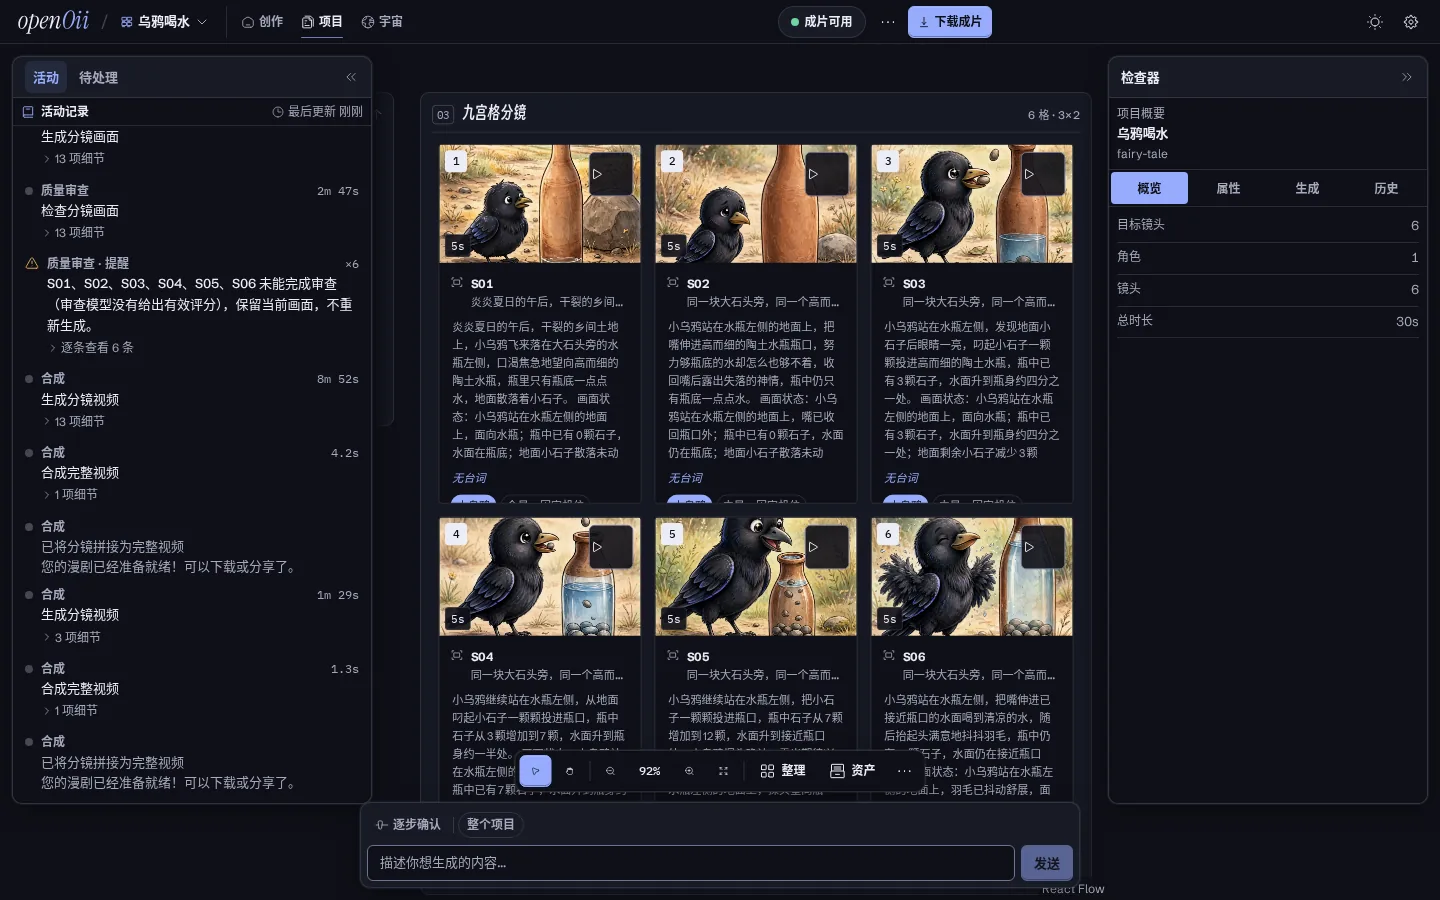
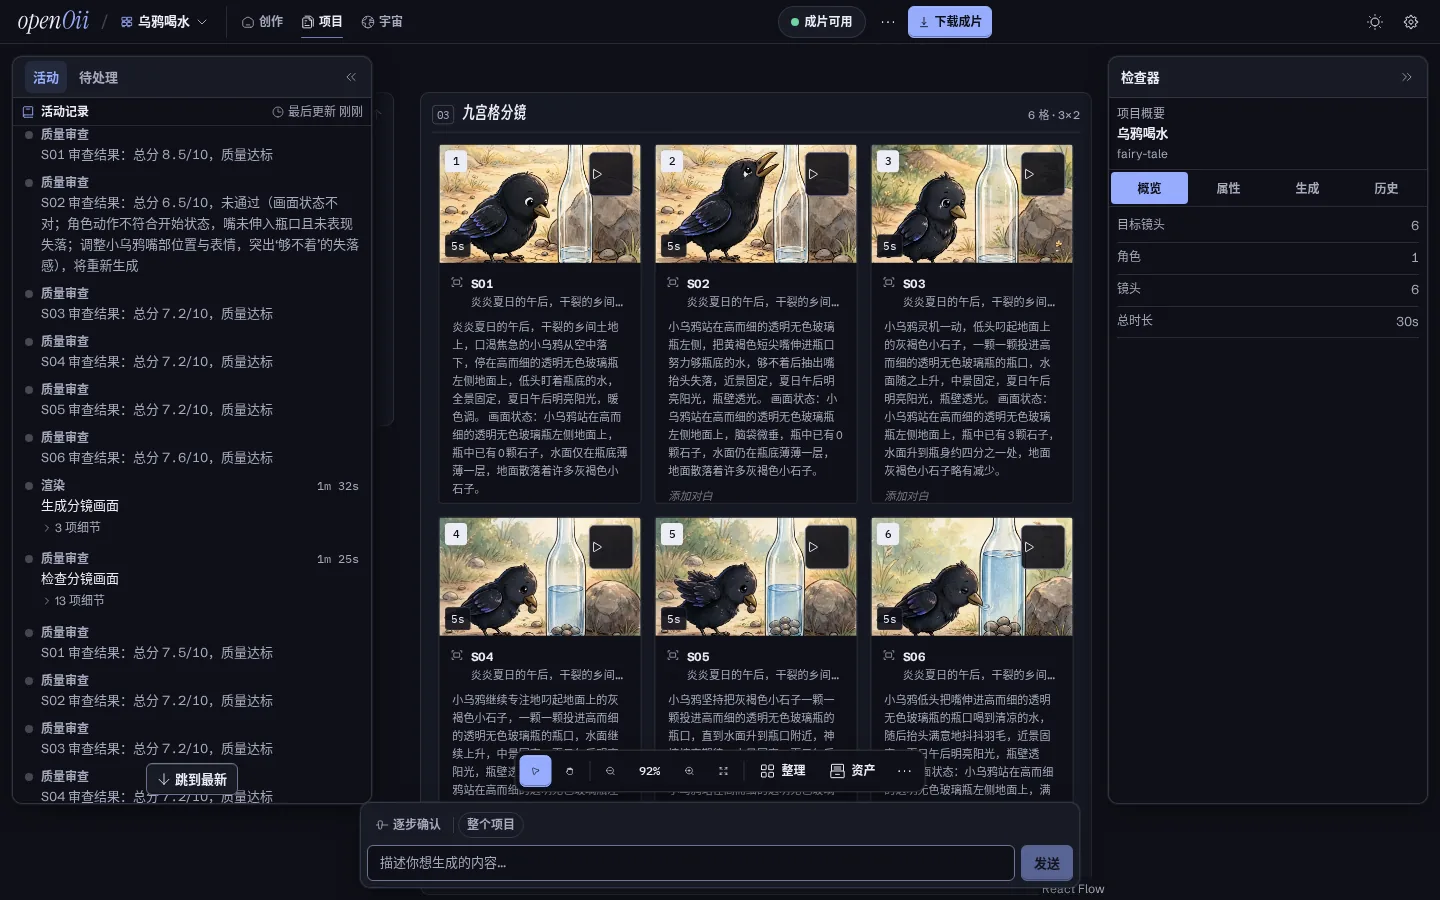
docs: drop the referral param from sponsor links and retake workbench screenshots
Remove only the ref query parameter from the three Bloome links; the sponsor block wording and layout are otherwise unchanged and the links still resolve.

Retake the light and dark workbench screenshots on a finished project with the activity list scrolled to its critic scores, so no review warning is shown.

diff --git a/README.md b/README.md
@@ -27,14 +27,14 @@
 <table>
   <tr>
     <td align="center" width="58%" valign="top">
-      <a href="https://bloome.im/app?ref=Xeron2000&utm_medium=github&utm_source=Xeron2000-openOii-ivor-202607">
+      <a href="https://bloome.im/app?utm_medium=github&utm_source=Xeron2000-openOii-ivor-202607">
         <img src="./doc/Bloome.png" alt="Bloome — 加速世界向人机协作团队转型" width="100%" />
       </a>
     </td>
     <td width="42%" valign="middle">
       <p>也在研究像 <strong>openOii</strong> 这样的多智能体流水线？</p>
       <p>
-        <a href="https://bloome.im/app?ref=Xeron2000&utm_medium=github&utm_source=Xeron2000-openOii-ivor-202607"><strong>Bloome</strong></a>
+        <a href="https://bloome.im/app?utm_medium=github&utm_source=Xeron2000-openOii-ivor-202607"><strong>Bloome</strong></a>
         让 Claude、ChatGPT、DeepSeek 等多个 AI 在同一对话里协作——互相质疑、交叉核对、一起把结果打磨到位。
       </p>
       <ul>
@@ -42,7 +42,7 @@
         <li>网页与移动端均可使用</li>
         <li>配置好的 Agent 可分享给团队</li>
       </ul>
-      <p><strong>👉 <a href="https://bloome.im/app?ref=Xeron2000&utm_medium=github&utm_source=Xeron2000-openOii-ivor-202607">免费试用 Bloome</a></strong></p>
+      <p><strong>👉 <a href="https://bloome.im/app?utm_medium=github&utm_source=Xeron2000-openOii-ivor-202607">免费试用 Bloome</a></strong></p>
     </td>
   </tr>
 </table>
@@ -83,7 +83,7 @@ openOii 把一句故事想法变成一部带配音、字幕和背景音乐的漫
     <td align="center" colspan="2">
       <img src="./doc/screenshots/workbench.webp" alt="openOii 工作台：活动记录、分镜画布与检查器" />
       <br />
-      <sub><strong>工作台 · 活动记录（含质量审查）、分镜画布与检查器</strong></sub>
+      <sub><strong>工作台 · 活动记录（含质量审查评分）、分镜画布与检查器</strong></sub>
     </td>
   </tr>
   <tr>
